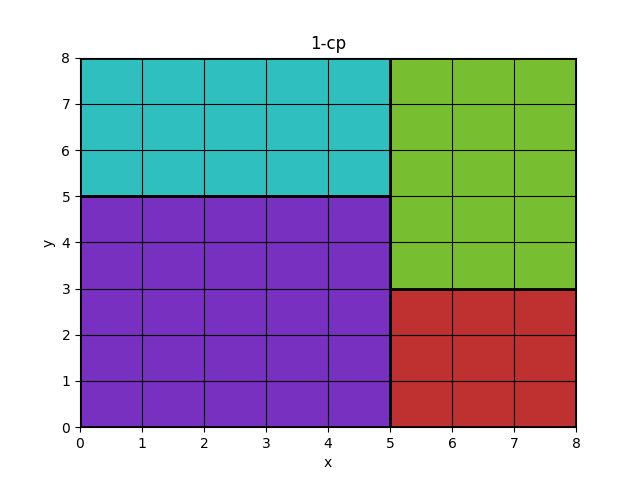
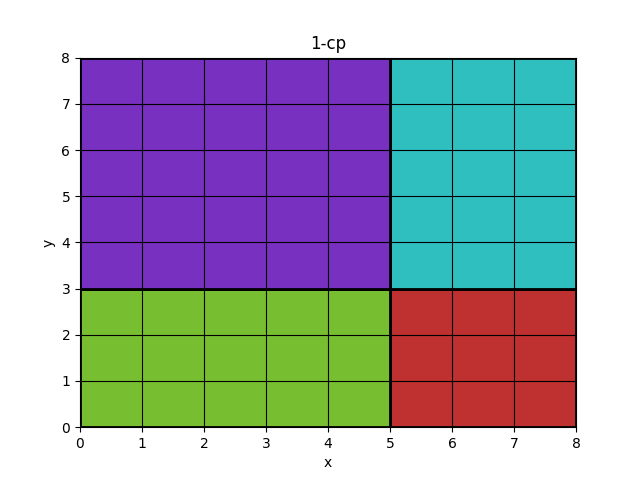
Add CP rotation
* makefile: minor fix
 * out/*: new output
 * src/cp_rotation.mzn: add rotation cp file
 * very-large-scale-integration.py: add rotation support

diff --git a/very-large-scale-integration.py b/very-large-scale-integration.py
@@ -14,15 +14,18 @@ from vlsi.sat import *
 from vlsi.smt import *
 
 
-TIMEOUT_CP = 60
-TIMEOUT_SAT = 60
-TIMEOUT_SMT = 60
+NORMAL = True
+ROTATION = True
+
+TIMEOUT_CP = 10
+TIMEOUT_SAT = 10
+TIMEOUT_SMT = 10
 
 MIN_CP = 1
 MAX_CP = 5
 
 MIN_SAT = 1
-MAX_SAT = 5
+MAX_SAT = 0
 
 MIN_SMT = 1
 MAX_SMT = 5
@@ -54,7 +57,10 @@ times_cp = []
 times_sat = []
 times_smt = []
 
-model = Model("src/cp.mzn")
+if ROTATION == True:
+    model = Model("src/cp_rotation.mzn") 
+else:
+    model = Model("src/cp.mzn")
 solver = Solver.lookup("chuffed")
 
 for i in range(MIN, MAX + 1):
@@ -108,29 +114,28 @@ for i in range(MIN, MAX + 1):
             chip_h_cp = result["objective"]
             bl_x_cp = result["bl_x"]
             bl_y_cp = result["bl_y"]
+            if ROTATION == True:
+                new_inst_x_cp = result['new_inst_x']
+                new_inst_y_cp = result['new_inst_y']
             if chip_h_cp == chip_w:
                 time_cp = result.statistics["time"].total_seconds()
                 times_cp.append(time_cp)
 
-                output_cp = str(chip_w) + " " + \
-                    str(chip_h_cp) + "\n" + str(n) + "\n"
-                for j in range(n):
-                    output_cp += str(inst_x[j]) + " " + str(inst_y[j]) + \
-                        " " + str(bl_x_cp[j]) + " " + str(bl_y_cp[j]) + "\n"
+                output_cp = str(chip_w) + " " + str(chip_h_cp) + "\n" + str(n) + "\n"
+                if ROTATION == True:
+                    for j in range(n):
+                        output_cp += str(new_inst_x_cp[j]) + " " + str(new_inst_y_cp[j]) + " " + str(bl_x_cp[j]) + " " + str(bl_y_cp[j]) + "\n"
+                else:
+                    for j in range(n):
+                        output_cp += str(inst_x[j]) + " " + str(inst_y[j]) + " " + str(bl_x_cp[j]) + " " + str(bl_y_cp[j]) + "\n"
 
                 with open("out/out-" + file + "-cp.txt", 'w') as outfile:
                     outfile.write(output_cp)
 
-                plot(file + "-cp",
-                     chip_w,
-                     chip_h_cp,
-                     [(inst_x[j],
-                       inst_y[j],
-                         bl_x_cp[j],
-                         bl_y_cp[j],
-                         tuple(value / 255 for value in colorsys.hsv_to_rgb(j / n,
-                                                                            0.75,
-                                                                            191))) for j in range(n)])
+                if ROTATION == True:
+                    plot(file+"-cp", chip_w, chip_h_cp, [(new_inst_x_cp[j], new_inst_y_cp[j], bl_x_cp[j], bl_y_cp[j], tuple(value/255 for value in colorsys.hsv_to_rgb(j/n,0.75,191))) for j in range(n)])
+                else:
+                    plot(file+"-cp", chip_w, chip_h_cp, [(inst_x[j], inst_y[j], bl_x_cp[j], bl_y_cp[j], tuple(value/255 for value in colorsys.hsv_to_rgb(j/n,0.75,191))) for j in range(n)])
                 print("DONE CP " + str(i) + ": " + str(time_cp) + " s")
             else:
                 time_cp = 0
@@ -207,17 +212,18 @@ for i in range(MIN, MAX + 1):
     else:
         times_smt.append(0)
 
-_, ax = plt.subplots(1, 1, figsize=(10, 10))
-ax.bar(np.arange(MIN, MAX + 1) - 0.3, times_cp, 0.3, label="cp")
-ax.bar(np.arange(MIN, MAX + 1), times_sat, 0.3, label="sat")
-ax.bar(np.arange(MIN, MAX + 1) + 0.3, times_smt, 0.3, label="smt")
+_, ax = plt.subplots(1, 1, figsize=(12.8, 7.2))
+ax.set_axisbelow(True)
+ax.bar(np.arange(MIN, MAX + 1) - 0.15, times_cp, 0.15, label="cp")
+ax.bar(np.arange(MIN, MAX + 1), times_sat, 0.15, label="sat")
+ax.bar(np.arange(MIN, MAX + 1) + 0.15, times_smt, 0.15, label="smt")
+ax.grid(axis='y', which='both')
 ax.set_xticks(range(MIN, MAX + 1))
 ax.set_xlabel("instance")
 ax.set_ylabel("seconds")
 plt.yscale('log')
 ax.set_ylim(top=max(TIMEOUT_CP, TIMEOUT_SAT, TIMEOUT_SMT))
 plt.tick_params(axis='y', which='both')
-plt.grid(axis='y', which='both')
 plt.legend(loc='best')
 plt.title("Times")
 plt.savefig("out/times.png")
